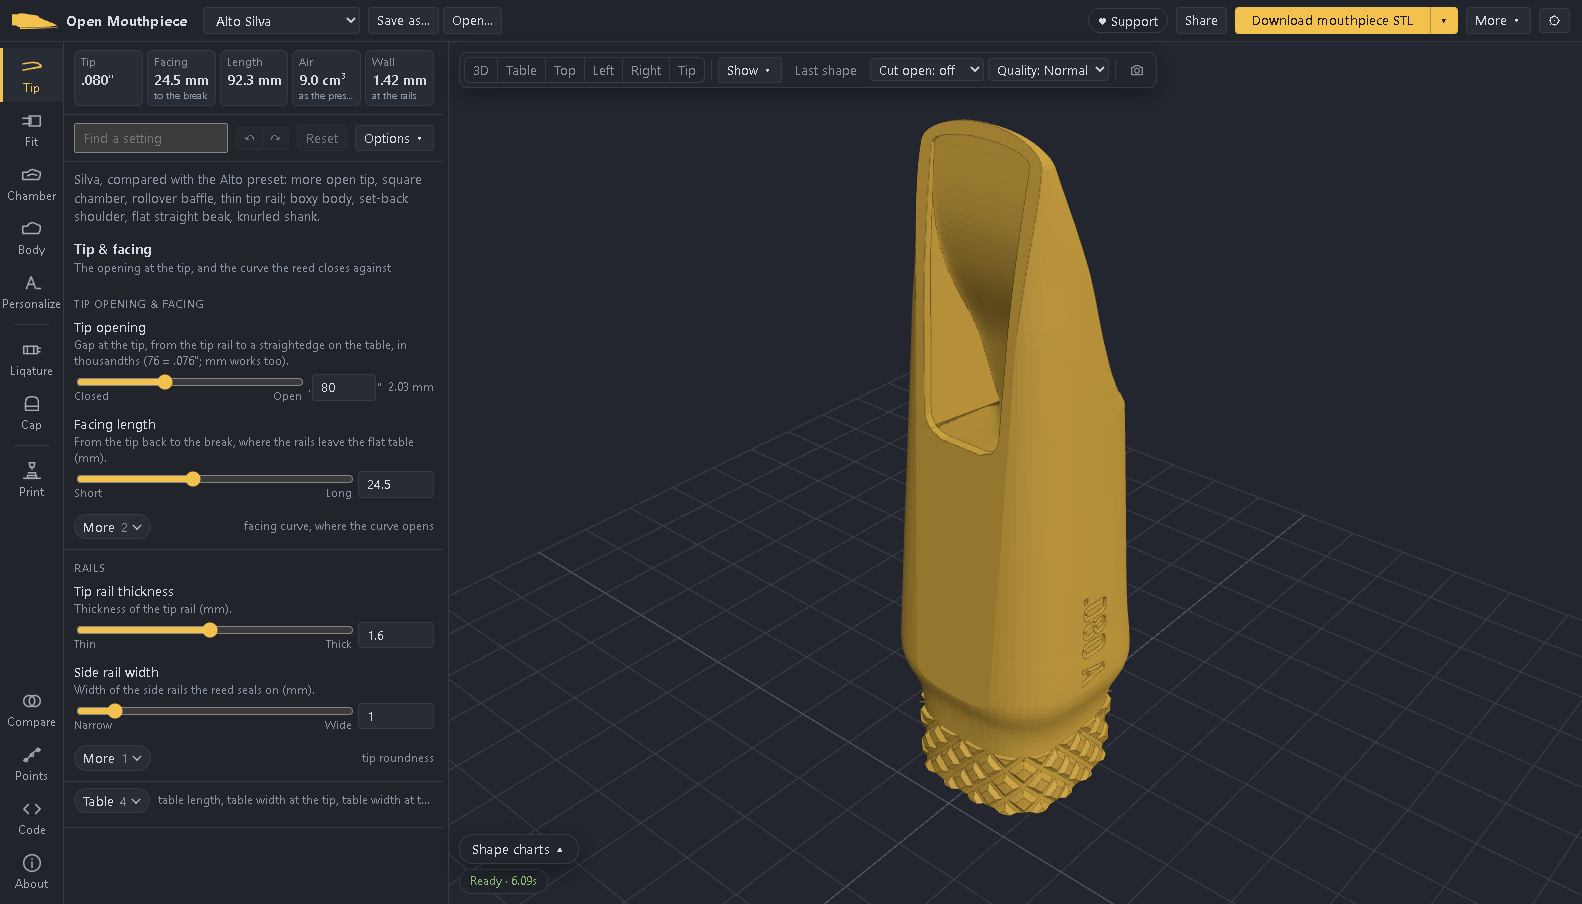
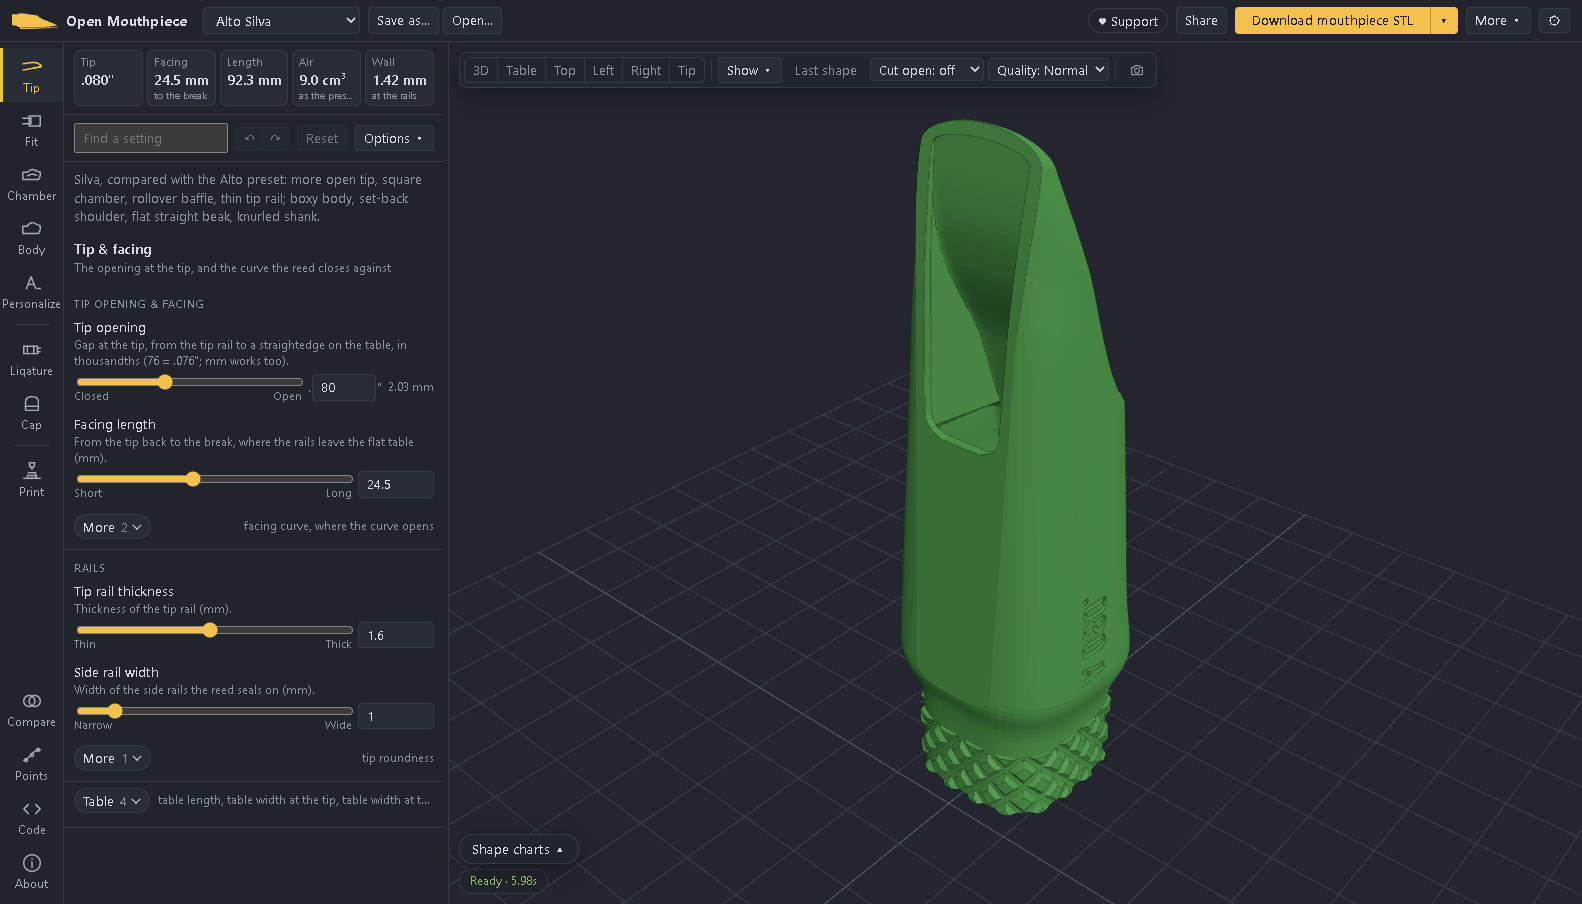
Variants show in their own colours (flame orange, forest green, wave blue) while the model colour is Gold

Changed region(s): [[0.5575, 0.1239, 0.7124, 0.8982]]

diff --git a/src/components/Viewer.tsx b/src/components/Viewer.tsx
@@ -14,7 +14,7 @@ import { OrbitControls } from "three/examples/jsm/controls/OrbitControls.js";
 import { STLLoader } from "three/examples/jsm/loaders/STLLoader.js";
 import type { FocusRequest } from "../focus";
 import { Menu } from "./Menu";
-import { luminance, useLook, useTheme, viewerBackground } from "../appearance";
+import { luminance, useLook, useModelColor, useTheme, viewerBackground } from "../appearance";
 
 // Sides as the player sees them (the lettering's convention: looking down on the top with the tip
 // away, right = -X): "left" looks from +X, "right" from -X.
@@ -225,8 +225,9 @@ export function Viewer({
   // Appearance (the ⚙ menu): model colour, background, grid, axes.
   const [look] = useLook();
   const bg = viewerBackground(look, useTheme());
-  const modelColor = useRef(look.model);
-  modelColor.current = look.model;
+  const model = useModelColor(); // the picked colour, or the variant's
+  const modelColor = useRef(model);
+  modelColor.current = model;
   const ctxRef = useRef<Ctx | null>(null);
   const framedFor = useRef<string | null>(null);
   const [edges, setEdges] = useState(viewPrefs.edges);
@@ -827,9 +828,9 @@ export function Viewer({
     ctx.a.traverse((o) => {
       if (!(o instanceof THREE.Mesh || o instanceof THREE.LineSegments)) return;
       const m = o.material as THREE.MeshStandardMaterial;
-      if (o.name === "body") m.color.set(look.model);
-      if (o.name === "cap") m.color.set(cutColor(look.model));
-      if (o.name === "edges") m.color.set(edgeColor(look.model));
+      if (o.name === "body") m.color.set(model);
+      if (o.name === "cap") m.color.set(cutColor(model));
+      if (o.name === "edges") m.color.set(edgeColor(model));
     });
     const mats = (
       Array.isArray(ctx.grid.material) ? ctx.grid.material : [ctx.grid.material]
@@ -843,7 +844,7 @@ export function Viewer({
     ctx.grid.visible = look.grid;
     ctx.axes.visible = look.axes;
     ctx.draw();
-  }, [look.model, bg.light, look.grid, look.axes]);
+  }, [model, bg.light, look.grid, look.axes]);
 
   const range = section === "length" ? bounds.x : bounds.z;
   // Save the view as a PNG: the viewer's background painted under the (transparent) 3D canvas.

diff --git a/src/appearance.ts b/src/appearance.ts
@@ -32,6 +32,34 @@ export const MODEL_COLORS: [string, string][] = [
   ["Green", "#3f9e6e"],
   ["Purple", "#8a63d2"],
 ];
+// The variants' own colours, by family (Flamma = flame, Silva = forest, Unda = wave). A variant shows
+// in its colour while the model colour is the default Gold; any other colour picked in ⚙ wins.
+export const VARIANT_COLORS: Record<string, string> = { flamma: "#f08030", silva: "#5fb35a", unda: "#3d6fd6" };
+export const variantColor = (path: string | null | undefined) => {
+  const m = /_(flamma|silva|unda)\.scad$/.exec(path ?? "");
+  return m ? VARIANT_COLORS[m[1]] : null;
+};
+let variant: string | null = null; // the open design's variant colour (set by the app)
+const variantListeners = new Set<() => void>();
+export function setVariantColor(c: string | null) {
+  if (c === variant) return;
+  variant = c;
+  apply();
+  variantListeners.forEach((fn) => fn());
+}
+const onVariant = (fn: () => void) => {
+  variantListeners.add(fn);
+  return () => variantListeners.delete(fn);
+};
+// The model's colour as drawn: the variant's while the picked colour is the default.
+export const modelColorOf = (look: Look, v: string | null = variant) =>
+  v && look.model.toLowerCase() === DEFAULT_LOOK.model ? v : look.model;
+export function useModelColor(): string {
+  const [look] = useLook();
+  const v = useSyncExternalStore(onVariant, () => variant);
+  return modelColorOf(look, v);
+}
+
 export const BG_COLORS: [string, string][] = [
   ["Slate", "#3a4150"],
   ["Night", "#101218"],
@@ -55,8 +83,9 @@ function apply() {
   const root = document.documentElement,
     theme = effectiveTheme(look.theme);
   if (root.dataset.theme !== theme) root.dataset.theme = theme;
-  root.style.setProperty("--model", look.model); // the A swatch and label
-  root.style.setProperty("--model-text", luminance(look.model) > 0.45 ? "#1b1d22" : "#ffffff");
+  const model = modelColorOf(look);
+  root.style.setProperty("--model", model); // the A swatch and label
+  root.style.setProperty("--model-text", luminance(model) > 0.45 ? "#1b1d22" : "#ffffff");
 }
 apply();
 subscribePrefs(apply);

diff --git a/src/App.tsx b/src/App.tsx
@@ -9,6 +9,7 @@ import { withValues } from "./scadText";
 import { api, base64ToBuffer, type ParamValue, type RenderTarget, type ScadParam } from "./api";
 import { Editor, type EditorHandle } from "./components/Editor";
 import { Viewer } from "./components/Viewer";
+import { setVariantColor, variantColor } from "./appearance";
 import { Console } from "./components/Console";
 import { ComparePanel } from "./components/ComparePanel";
 import { CurveEditor } from "./components/CurveEditor";
@@ -201,6 +202,8 @@ export default function App() {
   const activeTab = tabs.find((t) => t.key === activeKey) ?? tabs[0];
   const mainTab = tabs.find((t) => t.key === mainKey) ?? activeTab;
   const values = (mainTab && valuesByKey[mainTab.key]) ?? NO_VALUES;
+  // a variant shows in its family's colour (while the model colour is the default)
+  useEffect(() => setVariantColor(variantColor(mainTab?.path)), [mainTab?.path]);
   const otherPart = otherPartOf(values); // the shank test ring etc.: the mouthpiece's readouts don't apply
   const isRO = (t: Tab | undefined) => !!t?.path && readOnly.has(t.path);
   // What OpenSCAD needs to render the main tab: its text + unsaved text of other project files.

diff --git a/src/components/AppearanceMenu.tsx b/src/components/AppearanceMenu.tsx
@@ -90,6 +90,9 @@ export function AppearancePanel() {
           colors={MODEL_COLORS}
           onChange={(model) => setLook({ model })}
         />
+        {look.model.toLowerCase() === DEFAULT_LOOK.model && (
+          <span className="muted appearance-hint">With Gold, the variants show in their own colours.</span>
+        )}
       </div>
       <div className="appearance-row col">
         <span>Background</span>

diff --git a/src/styles.css b/src/styles.css
@@ -2335,6 +2335,9 @@ button.link:hover {
   align-items: flex-start;
   gap: 6px;
 }
+.appearance-hint {
+  font-size: 12px;
+}
 .appearance-row > span {
   color: var(--muted);
   font-size: 12px;

diff --git a/docs/dev/APP.md b/docs/dev/APP.md
@@ -180,7 +180,8 @@ static site (docs/HOSTING.md).
   shows in a box.
 - **Appearance** (`src/appearance.ts`): theme (`<html data-theme>`, CSS variables in styles.css: use
   `--accent-fg` for accent-coloured text and lines, `--overlay` for things over the viewer), model
-  colour, viewer background (the WebGL canvas is transparent over the container's CSS background),
+  colour (a variant shows in its family's colour, `VARIANT_COLORS`, while it is the default Gold;
+  `setVariantColor` from App, `useModelColor` in the Viewer), viewer background (the WebGL canvas is transparent over the container's CSS background),
   grid, axes.
 - **Phone/tablet** below 1024px (`useMediaQuery`): ☰ menu for file/compare/download actions, viewer
   on top with its tools behind ⋯ and the readouts as one line over it (`ReadoutLine`; a tap opens

diff --git a/docs/GUIDE.md b/docs/GUIDE.md
@@ -322,7 +322,8 @@ computer, where the settings appear in the Customizer. To make the ligature or c
 ## 15. App settings and privacy
 
 The **⚙** menu at the top right lets you change the theme (light, dark or your system's setting),
-the colour of the model, the background, and whether the grid and axes are shown.
+the colour of the model, the background, and whether the grid and axes are shown. With the
+default Gold, the variants show in their own colours: Flamma orange, Silva green, Unda blue.
 
 Your designs stay in your browser unless you download or share them. The app sends anonymous
 usage information to help us improve it, such as which designs and settings are used and whether
